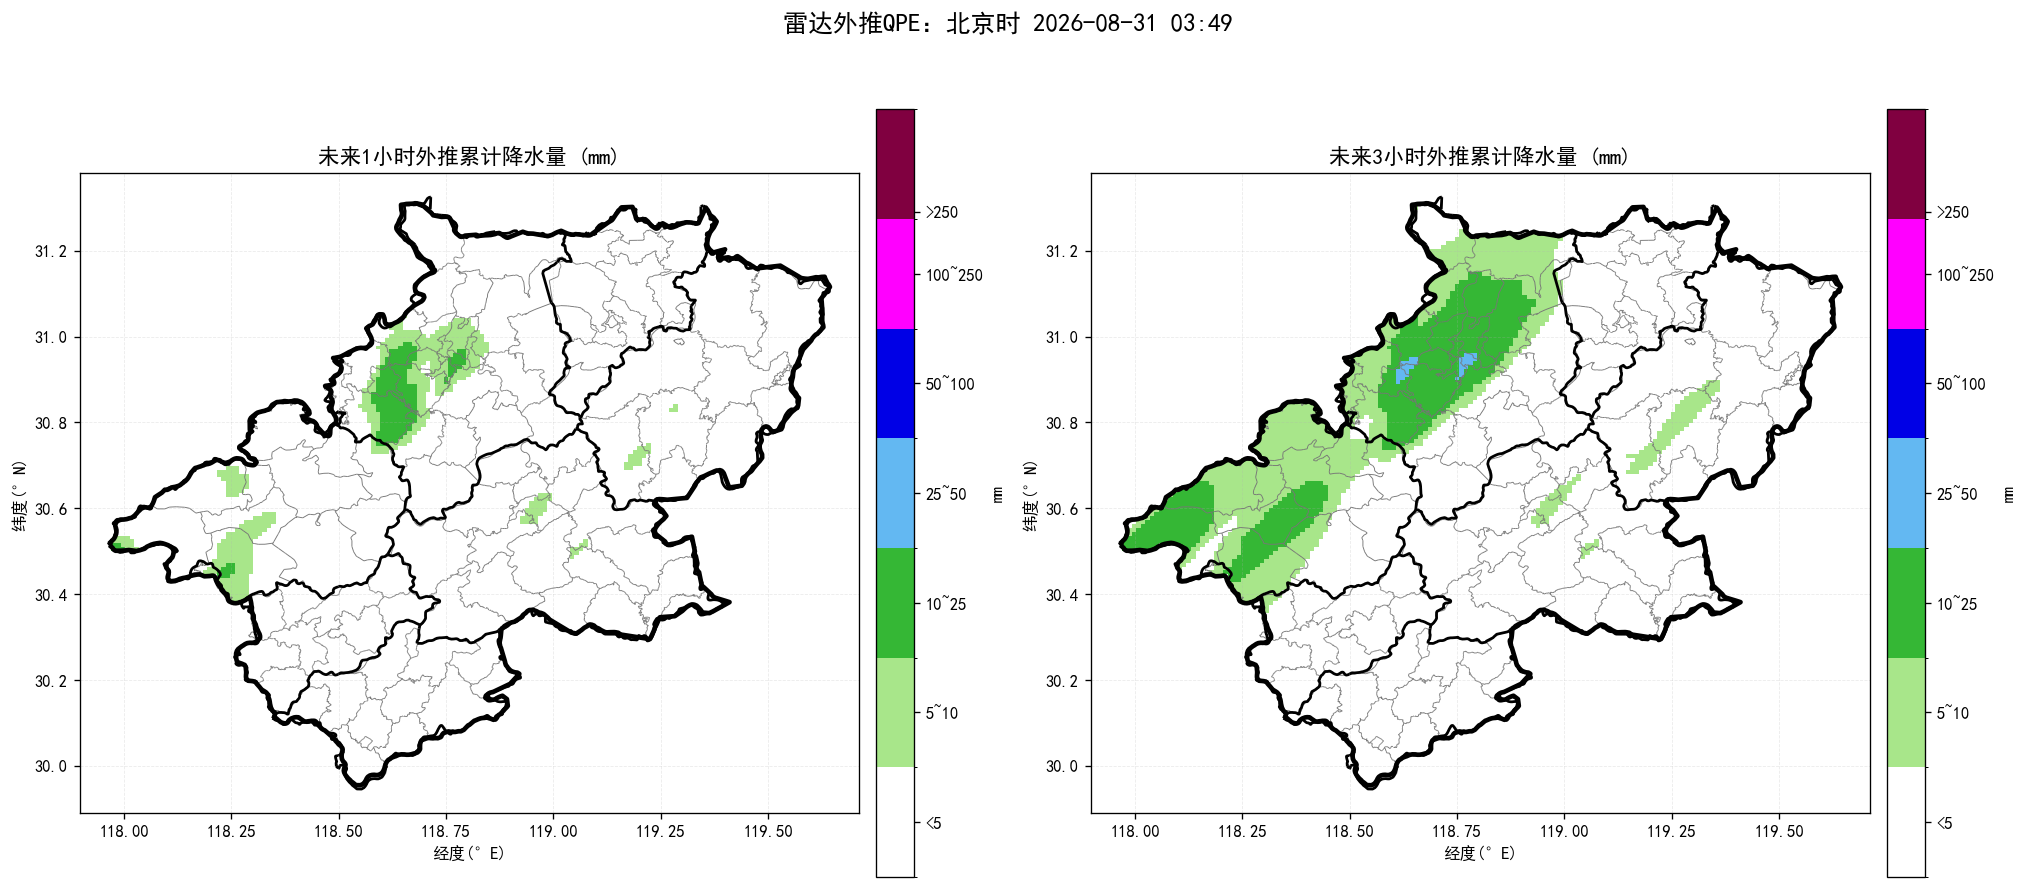
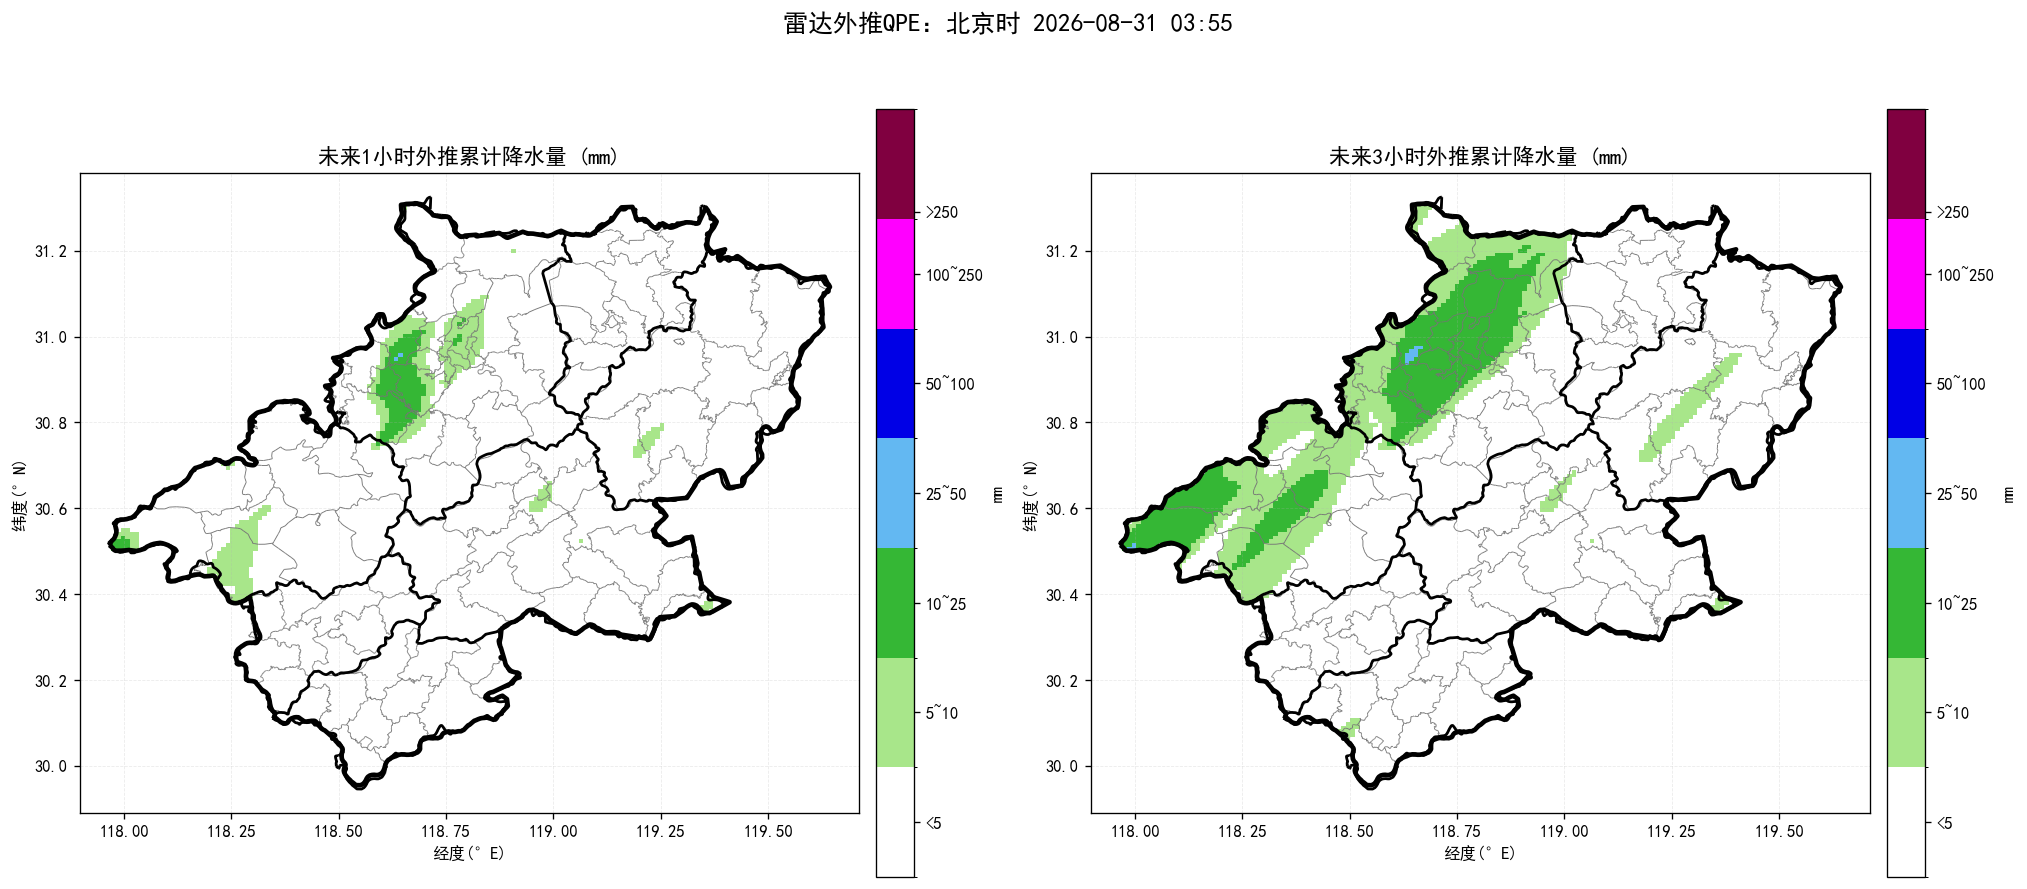
update nowcast products

diff --git a/index.html b/index.html
@@ -14,14 +14,14 @@ img.product{display:block;width:100%;height:auto;margin:10px auto 26px;border:1p
 .footer{font-size:13px;color:#777;text-align:center;margin-top:30px}
 @media(max-width:700px){.sheet{margin:0;padding:18px 15px}.alert-title{font-size:22px}.county-line{font-size:17px}.prob{font-size:18px}}
 </style></head><body><main class="sheet">
-<div class="time">起报时间：北京时 2026-08-31 03:49</div>
-<div class="alert-title">未来一小时降水量超过 20 毫米的乡镇：</div><div class="county-line">宁国市：天湖街道；</div><div class="county-line">宣州区：金坝街道、古泉镇、杨柳镇</div>
+<div class="time">起报时间：北京时 2026-08-31 03:55</div>
+<div class="alert-title">未来一小时降水量超过 20 毫米的乡镇：</div><div class="county-line">宣州区：古泉镇、金坝街道</div>
 <div class="alert-title">未来三小时降水量超过 50 毫米的乡镇：</div><div class="county-line">无</div>
 <div class="alert-title">未来三小时雷暴大风（组合反射率 > 55 dBZ）的乡镇：</div><div class="county-line">无</div>
-<div class="prob">最大降水量概率预估：宣城市范围内未来三小时累计降水达到50毫米概率约22%，达到80毫米概率约0%，达到100毫米概率约0%。</div>
-<div class="section-title">未来降水预报图：</div><img class="product auto-refresh-product" data-src="短临降水预报.png" src="短临降水预报.png?v=20260831035541" alt="未来降水预报图">
-<div class="section-title">未来三小时组合反射率图：</div><img class="product auto-refresh-product" data-src="未来3小时组合反射率.png" src="未来3小时组合反射率.png?v=20260831035541" alt="未来三小时组合反射率图">
-<div class="section-title">未来三小时雷暴大风图：</div><img class="product auto-refresh-product" data-src="未来3小时雷暴大风.png" src="未来3小时雷暴大风.png?v=20260831035541" alt="未来三小时雷暴大风图">
+<div class="prob">最大降水量概率预估：宣城市范围内未来三小时累计降水达到50毫米概率约17%，达到80毫米概率约0%，达到100毫米概率约0%。</div>
+<div class="section-title">未来降水预报图：</div><img class="product auto-refresh-product" data-src="短临降水预报.png" src="短临降水预报.png?v=20260831040121" alt="未来降水预报图">
+<div class="section-title">未来三小时组合反射率图：</div><img class="product auto-refresh-product" data-src="未来3小时组合反射率.png" src="未来3小时组合反射率.png?v=20260831040121" alt="未来三小时组合反射率图">
+<div class="section-title">未来三小时雷暴大风图：</div><img class="product auto-refresh-product" data-src="未来3小时雷暴大风.png" src="未来3小时雷暴大风.png?v=20260831040121" alt="未来三小时雷暴大风图">
 <div class="footer">三张产品图每 60 秒自动刷新一次；每次请求自动附加新的URL参数以绕过缓存。</div>
 <script>
 (function() {
